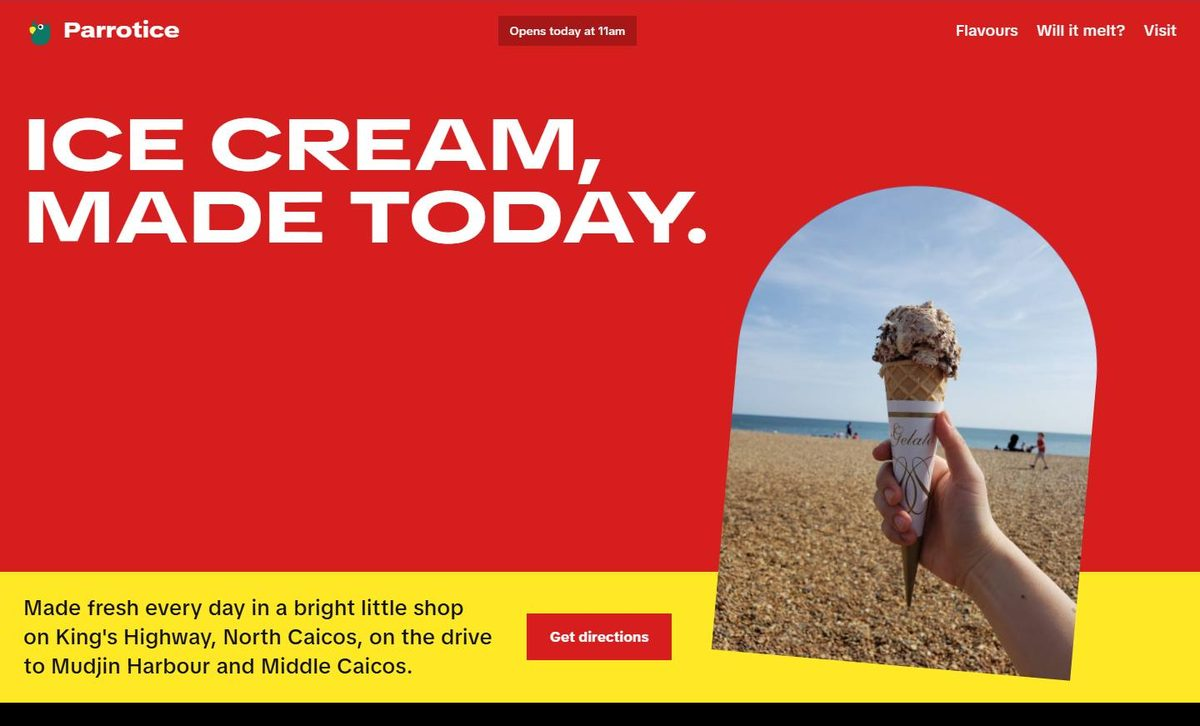
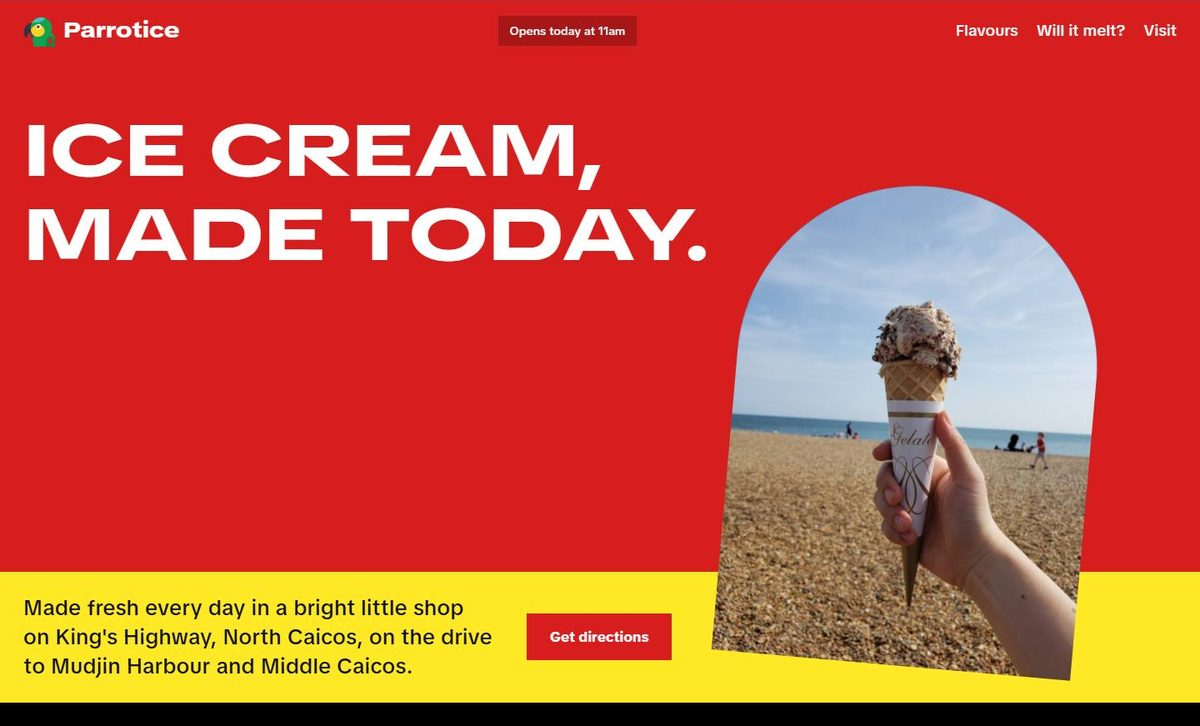
Parrotice: redraw cone, parrot and rating; word panels for the builders

Changed region(s): [[0.0, 0.1515, 0.5858, 0.3636], [0.0, 0.0303, 0.0617, 0.0606]]

diff --git a/22-parrotice/index.html b/22-parrotice/index.html
@@ -12,7 +12,7 @@
   <link rel="preconnect" href="https://fonts.googleapis.com">
   <link rel="preconnect" href="https://fonts.gstatic.com" crossorigin>
   <link href="https://fonts.googleapis.com/css2?family=TikTok+Sans:wdth,wght@75..150,300..900&display=swap" rel="stylesheet">
-  <link rel="stylesheet" href="style.css?v=1">
+  <link rel="stylesheet" href="style.css?v=2">
   <style>.concept-strip{position:absolute;top:0;left:0;right:0;z-index:1000;height:28px;display:flex;align-items:center;justify-content:center;gap:10px;padding:0 12px;background:#111;color:#f5f5f5;font:500 11.5px/1 system-ui,-apple-system,"Segoe UI",sans-serif;white-space:nowrap;overflow:hidden;text-overflow:ellipsis}.concept-strip a{color:#ffd54a;text-decoration:none}body{padding-top:28px}</style>
   <script>document.documentElement.classList.add("js");</script>
 </head>
@@ -23,7 +23,7 @@
 <header class="hero" id="top">
   <nav class="top" aria-label="Main">
     <a class="wordmark" href="#top">
-      <svg class="mark-bird" viewBox="0 0 40 40" aria-hidden="true"><use href="#bird"/></svg>
+      <svg class="mark-bird" viewBox="14 20 92 92" aria-hidden="true"><use href="#parrot" width="160" height="210"/></svg>
       Parrotice
     </a>
     <p class="open-chip" data-open>Open every day, 11 to 5</p>
@@ -66,11 +66,14 @@
 <!-- FLAVOURS: the eight names as one sentence, one lit at a time -->
 <section class="flavours" id="flavours" aria-label="Flavours">
   <div class="flav-scoop" aria-hidden="true">
-    <svg viewBox="0 0 220 300">
-      <path class="flav-ball" d="M28 128c-14-6-18-26-6-38 0-34 30-60 66-60 22-16 56-14 74 6 34 6 48 44 30 70 10 14 2 30-14 30-12 12-30 10-40 2-12 10-30 10-42 0-14 10-34 8-44-2-12 6-24 2-24-8z"/>
-      <path class="flav-shine" d="M70 64c10-12 26-18 40-16" />
-      <path class="cone" d="M30 138h160L112 296h-4z"/>
-      <path class="cone-grid" d="M58 150l70 92M92 150l56 72M126 150l40 50M162 150l-70 92M128 150l-56 72M94 150l-40 50"/>
+    <svg viewBox="0 0 200 300">
+      <path class="cone" d="M40 118h120L102 292h-4z"/>
+      <g clip-path="url(#cone-clip)" class="cone-grid">
+        <path d="M20 100l140 196M48 100l140 196M76 100l140 196M104 100l140 196M-8 100l140 196M-36 100l140 196"/>
+        <path d="M180 100L40 296M152 100L12 296M124 100L-16 296M96 100L-44 296M208 100L68 296M236 100L96 296"/>
+      </g>
+      <path class="flav-ball" d="M28 116C28 62 60 26 100 26s72 36 72 90a14 14 0 0 1-28.8 0a14.4 14.4 0 0 1-28.8 0a14.4 14.4 0 0 1-28.8 0a14.4 14.4 0 0 1-28.8 0a14.4 14.4 0 0 1-28.8 0z"/>
+      <path class="flav-shine" d="M56 70c8-16 22-26 38-28"/>
     </svg>
   </div>
   <div class="flav-copy">
@@ -121,33 +124,42 @@
 
   <div class="melt-stage">
     <svg class="melt-art" viewBox="0 0 360 360" role="img" aria-labelledby="melt-verdict">
-      <ellipse class="puddle" cx="160" cy="336" rx="96" ry="14" data-puddle/>
-      <g data-cone-art>
-        <g class="scoop-wrap" data-scoop>
-          <path class="scoop" d="M96 150c-14-4-20-22-8-34 0-30 26-52 58-52 20-14 50-12 66 6 30 6 42 38 26 60 8 12 0 26-12 26-10 10-26 8-36 2-10 8-26 8-36 0-12 8-30 6-38-2-10 4-20 2-20-6z"/>
-          <path class="scoop-shine" d="M128 98c8-10 22-16 34-14"/>
-        </g>
+      <g transform="translate(30 36)">
+        <ellipse class="puddle" cx="100" cy="300" rx="84" ry="11" data-puddle/>
         <g data-cone>
-          <path class="cone" d="M92 158h136l-66 170h-4z"/>
-          <path class="cone-grid" d="M116 170l58 76M144 170l46 58M172 170l32 40M206 170l-58 76M178 170l-46 58M150 170l-32 40"/>
+          <path class="cone" d="M40 118h120L102 292h-4z"/>
+          <g clip-path="url(#cone-clip)" class="cone-grid">
+        <path d="M20 100l140 196M48 100l140 196M76 100l140 196M104 100l140 196M-8 100l140 196M-36 100l140 196"/>
+        <path d="M180 100L40 296M152 100L12 296M124 100L-16 296M96 100L-44 296M208 100L68 296M236 100L96 296"/>
+      </g>
         </g>
-        <path class="cup is-off" d="M92 158h136l-16 92h-104z" data-cup/>
-        <g class="drips" data-drips>
-          <path d="M104 156h14v40a7 7 0 0 1-14 0z"/>
-          <path d="M150 158h12v62a6 6 0 0 1-12 0z"/>
-          <path d="M196 156h14v30a7 7 0 0 1-14 0z"/>
+        <g class="is-off" data-cup>
+          <path class="cup" d="M38 122h124l-16 128H54z"/>
+          <path class="cup-rim" d="M32 112h136v18H32z"/>
+          <path class="cup-stripe" d="M47 170h106l-3 22H50z"/>
         </g>
         <g class="is-off" data-pint>
-          <path class="tub" d="M98 160h124l-12 160h-100z"/>
-          <path class="tub-lid" d="M88 146h144v20h-144z"/>
-          <path class="tub-label" d="M118 214h84v52h-84z"/>
+          <path class="tub" d="M44 126h112l-10 164H54z"/>
+          <path class="tub-lid" d="M34 104h132v26H34z"/>
+          <path class="tub-label" d="M54 176h92v62H54z"/>
+          <text class="tub-text" x="100" y="212" text-anchor="middle" textLength="76" lengthAdjust="spacingAndGlyphs">PARROTICE</text>
+        </g>
+        <g class="scoop-wrap" data-scoop>
+          <path class="scoop" d="M28 116C28 62 60 26 100 26s72 36 72 90a14 14 0 0 1-28.8 0a14.4 14.4 0 0 1-28.8 0a14.4 14.4 0 0 1-28.8 0a14.4 14.4 0 0 1-28.8 0a14.4 14.4 0 0 1-28.8 0z"/>
+          <path class="scoop-shine" d="M56 70c8-16 22-26 38-28"/>
+        </g>
+        <g class="drips" data-drips>
+          <path d="M50 124h12v44a6 6 0 0 1-12 0z"/>
+          <path d="M94 126h12v70a6 6 0 0 1-12 0z"/>
+          <path d="M138 124h12v34a6 6 0 0 1-12 0z"/>
         </g>
       </g>
+      <use href="#parrot" x="232" y="170" width="120" height="158"/>
       <g class="bird" data-bird>
-        <use href="#bird-big" x="236" y="168" width="120" height="150"/>
-        <circle class="bird-eye" cx="284" cy="214" r="9"/>
-        <circle class="bird-pupil" cx="281" cy="215" r="4.5" data-pupil/>
-        <path class="bird-brow" d="M272 198l24 2" data-brow/>
+        <circle cx="275.5" cy="210.6" r="6.4" fill="#fff"/>
+        <circle cx="274.8" cy="210.6" r="4" fill="#e3711b"/>
+        <circle class="bird-pupil" cx="274.4" cy="210.6" r="2.1" data-pupil/>
+        <path class="bird-brow" d="M267 201.5l16 2" data-brow/>
       </g>
     </svg>
     <div class="trip" aria-hidden="true">
@@ -225,50 +237,38 @@
   <div class="made-pin"><h2 id="made-h"><span>Built by</span> <span>friends</span></h2><p>The shop as the people who made it in 2019, from the story in Times of the Islands.</p></div>
   <div class="made-list">
     <article class="maker">
-      <div class="maker-art art-red" aria-hidden="true">
-        <svg viewBox="0 0 200 200"><path class="o-yellow" d="M22 28h72v64h-72z"/><path class="o-blue" d="M106 28h72v64h-72z"/><path class="o-green" d="M22 104h156v40h-156z"/><path class="o-ink" d="M120 148l12-6 30 52-12 6z"/><path class="o-white" d="M104 132l22-12 8 16-22 12z"/><path class="o-yellow" d="M94 118l16-8 6 12-18 8z"/></svg>
-      </div>
+      <div class="maker-art art-yellow" aria-hidden="true"><p class="maker-word" data-fit-word>The idea</p></div>
       <h3>Patti DesLauriers</h3>
       <p class="role">Owner</p>
       <p>Cleared the land in 2018, tested recipe after recipe on friends and neighbours, and painted the shop herself in colours you can see from the road.</p>
       <blockquote><p>“I always thought this island needed an ice cream shop.”</p><cite>Patti DesLauriers, Times of the Islands, 2019</cite></blockquote>
     </article>
     <article class="maker">
-      <div class="maker-art art-blue" aria-hidden="true">
-        <svg viewBox="0 0 200 200"><circle class="o-white" cx="82" cy="78" r="44"/><path class="o-yellow" d="M118 66a38 38 0 0 1 54 6l-28 24z"/><path class="o-ink" d="M142 94l12-8 34 104-14 6z"/><path class="o-red" d="M30 128h104l-10 64h-84z"/></svg>
-      </div>
+      <div class="maker-art art-blue" aria-hidden="true"><p class="maker-word" data-fit-word>Recipes</p></div>
       <h3>Sherry Williams</h3>
       <p class="role">Manager when the shop opened</p>
       <p>Made the ice cream and helped Patti get the recipes right, down to the banana made with fruit grown on the island.</p>
     </article>
     <article class="maker">
-      <div class="maker-art art-yellow" aria-hidden="true">
-        <svg viewBox="0 0 200 200"><path class="o-red" d="M12 88l88-60 88 60z"/><path class="o-blue" d="M32 88h136v100h-136z"/><path class="o-yellow" d="M86 128h30v60h-30z"/><path class="o-white" d="M46 106h28v26h-28zM128 106h28v26h-28z"/></svg>
-      </div>
+      <div class="maker-art art-ink" aria-hidden="true"><p class="maker-word" data-fit-word>Building</p></div>
       <h3>Charlton Gardiner</h3>
       <p class="role">Builder, Major Hill</p>
       <p>Put up the building itself, the little shop that now sits among the palms on King's Highway.</p>
     </article>
     <article class="maker">
-      <div class="maker-art art-green" aria-hidden="true">
-        <svg viewBox="0 0 200 200"><path class="o-yellow" d="M16 74h168v24h-168z"/><path class="o-yellow" d="M30 98h18v92h-18zM152 98h18v92h-18z"/><path class="o-red" d="M58 138h84v16h-84z"/><path class="o-red" d="M66 154h12v36h-12zM122 154h12v36h-12z"/></svg>
-      </div>
+      <div class="maker-art art-green" aria-hidden="true"><p class="maker-word" data-fit-word>Tables</p></div>
       <h3>Howie Bartels</h3>
       <p class="role">Carpenter</p>
       <p>Added the porch, finished the inside and made the tables and outdoor seats where everyone eats.</p>
     </article>
     <article class="maker">
-      <div class="maker-art art-yellow" aria-hidden="true">
-        <svg viewBox="0 0 200 200"><use href="#bird-big" x="44" y="10" width="112" height="140"/><circle class="o-white" cx="88" cy="54" r="8"/><circle cx="85" cy="55" r="4" fill="#111"/><path class="o-yellow" d="M50 156h100v34h-100z"/></svg>
-      </div>
+      <div class="maker-art art-white" aria-hidden="true"><svg viewBox="0 0 160 210"><use href="#parrot" width="160" height="210"/></svg></div>
       <h3>Jim Frey</h3>
       <p class="role">Wood carver</p>
       <p>Carved Iceman, the shop's parrot, out of casuarina wood.</p>
     </article>
     <article class="maker">
-      <div class="maker-art art-red" aria-hidden="true">
-        <svg viewBox="0 0 200 200"><path class="o-blue" d="M24 16h152v128h-152z"/><circle class="o-red" cx="100" cy="70" r="30"/><path class="o-yellow" d="M64 144h14v48h-14zM122 144h14v48h-14z"/></svg>
-      </div>
+      <div class="maker-art art-blue" aria-hidden="true"><p class="maker-word" data-fit-word>Photo boards</p></div>
       <h3>Rita Shaw</h3>
       <p class="role">Artist, Middle Caicos</p>
       <p>Made the photo boards that visitors stand behind for their pictures.</p>
@@ -279,14 +279,13 @@
 <!-- GUESTS: the rating as stacked scoops -->
 <section class="guests" id="guests" aria-labelledby="guests-h">
   <div class="tower" aria-hidden="true">
-    <svg viewBox="0 0 200 520">
-      <path class="t-cone" d="M46 384h108l-52 132h-4z"/>
-      <circle class="t-scoop" cx="100" cy="344" r="54"/>
-      <circle class="t-scoop" cx="100" cy="266" r="50"/>
-      <circle class="t-scoop" cx="100" cy="194" r="46"/>
-      <circle class="t-scoop" cx="100" cy="128" r="42"/>
-      <circle class="t-empty" cx="100" cy="70" r="38"/>
-      <circle class="t-scoop t-part" cx="100" cy="70" r="38"/>
+    <svg viewBox="0 0 520 156">
+      <use href="#mini-cone" x="0" width="100" height="150" style="color:#f4ead2"/>
+      <use href="#mini-cone" x="105" width="100" height="150" style="color:#f28aa0"/>
+      <use href="#mini-cone" x="210" width="100" height="150" style="color:#7a4328"/>
+      <use href="#mini-cone" x="315" width="100" height="150" style="color:#bff0d8"/>
+      <use href="#mini-cone" x="420" width="100" height="150" style="color:#074438"/>
+      <svg x="420" width="80" height="150" viewBox="0 0 160 300" preserveAspectRatio="xMinYMin meet" overflow="hidden"><use href="#mini-cone" width="200" height="300" style="color:#ffe927"/></svg>
     </svg>
   </div>
   <div class="guests-copy">
@@ -379,22 +378,42 @@
   </div>
 </footer>
 
-<!-- Drawn parrot, used in the wordmark, the melt meter and the carver's card -->
+<!-- Drawn parrot (a turquoise-fronted amazon) and the small cone used for the rating -->
 <svg width="0" height="0" style="position:absolute" aria-hidden="true">
-  <symbol id="bird" viewBox="0 0 40 40">
-    <path fill="#0c7866" d="M20 4c8 0 14 6 14 14v8c0 7-5 12-12 12h-6l-6-6V18c0-8 4-14 10-14z"/>
-    <path fill="#d71e1e" d="M20 4c6 0 10 3 12 8H14c1-5 3-8 6-8z"/>
-    <path fill="#ffe927" d="M8 16c3-2 7-2 8 2l-4 6c-3 0-5-4-4-8z"/>
-    <circle fill="#fff" cx="22" cy="15" r="3.4"/><circle fill="#111" cx="21.4" cy="15" r="1.7"/>
+  <defs>
+    <clipPath id="cone-clip"><path d="M40 118h120L102 292h-4z"/></clipPath>
+    <clipPath id="head-clip"><circle cx="66" cy="58" r="31"/></clipPath>
+    <clipPath id="wing-clip"><path d="M86 82c22-4 40 20 40 54 0 22-8 40-20 50-12-6-26-30-28-58-1-20 2-40 8-46z"/></clipPath>
+  </defs>
+  <symbol id="parrot" viewBox="0 0 160 210">
+    <path d="M100 160l30 46h-14l-26-40z" fill="#1e4bd7"/>
+    <path d="M108 158l32 40-10 6-28-40z" fill="#0b8a43"/>
+    <path d="M42 70c-4 46 12 92 50 108 22 9 40-4 38-30-2-38-22-74-52-86z" fill="#10a34f"/>
+    <path d="M48 66c-10 0-16 6-16 13 0 4 3 6 7 6 6 0 10-6 12-12z" fill="#4a4a55"/>
+    <path d="M50 44c-20-4-34 8-34 26 0 8 3 14 8 18 0-12 8-20 26-22z" fill="#33333d"/>
+    <circle cx="66" cy="58" r="31" fill="#10a34f"/>
+    <g clip-path="url(#head-clip)">
+      <path d="M30 22h50c-2 14-14 20-30 20-10 0-18 4-22 8z" fill="#3fc8c0"/>
+      <ellipse cx="56" cy="66" rx="20" ry="17" fill="#ffd21f"/>
+    </g>
+    <path d="M86 82c22-4 40 20 40 54 0 22-8 40-20 50-12-6-26-30-28-58-1-20 2-40 8-46z" fill="#0b8a43"/>
+    <g clip-path="url(#wing-clip)">
+      <path d="M70 150h70v50H70z" fill="#1e4bd7"/>
+      <ellipse cx="92" cy="96" rx="6" ry="9" fill="#d71e1e"/>
+    </g>
+    <circle cx="58" cy="54" r="8" fill="#fff"/>
+    <circle cx="57" cy="54" r="5" fill="#e3711b"/>
+    <circle cx="56.5" cy="54" r="2.6" fill="#111"/>
+    <circle cx="55" cy="52.4" r="1.1" fill="#fff"/>
+    <rect x="20" y="176" width="140" height="12" rx="6" fill="#7a4a26"/>
+    <path d="M74 170c-4 4-6 10-4 14h8c0-4 2-8 4-10zM92 172c-4 4-5 9-3 12h8c0-4 1-7 3-9z" fill="#8c8c96"/>
   </symbol>
-  <symbol id="bird-big" viewBox="0 0 128 160">
-    <path fill="#0c7866" d="M60 8c30 0 52 22 52 52v44c0 26-20 48-46 48H44l-22-22V58C22 28 36 8 60 8z"/>
-    <path fill="#d71e1e" d="M60 8c22 0 38 12 46 30H40c4-18 10-30 20-30z"/>
-    <path style="fill: var(--bird-wing, #1e4bd7)" d="M96 76c12 6 16 22 12 40l-10 34-14-8 6-30c2-14 0-26 6-36z"/>
-    <path fill="#ffe927" d="M8 50c12-8 28-8 32 6L28 80C16 82 4 66 8 50z"/>
+  <symbol id="mini-cone" viewBox="0 0 200 300">
+    <path d="M40 118h120L102 292h-4z" fill="#e3a64c"/>
+    <path d="M28 116C28 62 60 26 100 26s72 36 72 90a14 14 0 0 1-28.8 0a14.4 14.4 0 0 1-28.8 0a14.4 14.4 0 0 1-28.8 0a14.4 14.4 0 0 1-28.8 0a14.4 14.4 0 0 1-28.8 0z" fill="currentColor"/>
   </symbol>
 </svg>
 
-<script src="script.js?v=1"></script>
+<script src="script.js?v=2"></script>
 </body>
 </html>

diff --git a/22-parrotice/style.css b/22-parrotice/style.css
@@ -185,9 +185,9 @@ fieldset { border: 0; margin: 0; padding: 0; min-width: 0; }
 }
 .flav-scoop svg { width: 100%; max-width: 340px; margin: 0 auto; }
 .flav-ball { fill: var(--scoop); transition: fill .45s var(--ease); }
-.flav-shine { fill: none; stroke: rgba(255, 255, 255, .7); stroke-width: 8; stroke-linecap: round; }
+.flav-shine { fill: none; stroke: rgba(255, 255, 255, .75); stroke-width: 9; stroke-linecap: round; }
 .cone { fill: var(--waffle); }
-.cone-grid { fill: none; stroke: var(--waffle-line); stroke-width: 5; stroke-linecap: round; }
+.cone-grid { fill: none; stroke: var(--waffle-line); stroke-width: 5; }
 .flav-sentence { font-size: clamp(1.5rem, 2.2vw, 2rem); font-weight: 700; line-height: 1.3; max-width: 44ch; }
 .lead-in { color: var(--ink); }
 .fl { color: rgba(255, 255, 255, .64); transition: color .4s var(--ease); }
@@ -239,16 +239,19 @@ fieldset { border: 0; margin: 0; padding: 0; min-width: 0; }
 .melt-art { width: 100%; overflow: visible; }
 .scoop, .drips path, .puddle { fill: var(--scoop); }
 .scoop-shine { fill: none; stroke: rgba(255, 255, 255, .8); stroke-width: 8; stroke-linecap: round; }
-.scoop-wrap { transform-origin: 160px 158px; }
+.scoop-wrap { transform-box: fill-box; transform-origin: 50% 88%; }
 .drips path { transform-box: fill-box; transform-origin: top; transform: scaleY(0); }
 .puddle { transform-box: fill-box; transform-origin: center; transform: scale(0); } /* taste-skill-ignore: a puddle that grows as the scoop melts, not an entrance */
 .cup { fill: var(--red); }
+.cup-rim { fill: var(--red-deep); }
+.cup-stripe { fill: var(--ink); }
+.tub-text { font: 800 13px "TikTok Sans", sans-serif; fill: var(--red); }
 .tub { fill: var(--ink); }
 .tub-lid { fill: var(--red); }
 .tub-label { fill: var(--yellow); }
 .bird-eye { fill: var(--ink); }
-.bird-pupil { fill: var(--black); transition: transform .3s var(--ease); }
-.bird-brow { stroke: var(--black); stroke-width: 6; stroke-linecap: round; transform-box: fill-box; transform-origin: center; transition: transform .3s var(--ease); }
+.bird-pupil { fill: var(--black); transform-box: fill-box; transition: transform .3s var(--ease); }
+.bird-brow { stroke: var(--black); stroke-width: 3.5; stroke-linecap: round; transform-box: fill-box; transform-origin: center; transition: transform .3s var(--ease); }
 .trip { display: grid; grid-template-columns: auto 1fr auto; gap: 12px; align-items: center; margin-top: 22px; font-weight: 600; font-size: 1rem; }
 .trip-track { position: relative; height: 14px; background: var(--blue-deep); }
 .trip-car {
@@ -304,8 +307,14 @@ fieldset { border: 0; margin: 0; padding: 0; min-width: 0; }
 .made-list { display: grid; grid-template-columns: 1fr 1fr; gap: 64px 40px; align-items: start; }
 .maker { width: 100%; }
 .maker:nth-child(even) { margin-top: 22vh; }
-.maker-art { background: var(--bg); aspect-ratio: 3 / 2; padding: 6% 22%; margin-bottom: 18px; }
-.maker-art svg { width: 100%; height: 100%; overflow: visible; }
+.maker-art { background: var(--bg); aspect-ratio: 3 / 2; padding: 0 9%; margin-bottom: 18px; display: flex; align-items: center; overflow: hidden; }
+.maker-art svg { height: 86%; width: auto; margin: 0 auto; }
+.maker-word { font-weight: 800; font-stretch: 150%; text-transform: uppercase; letter-spacing: -0.01em; line-height: 1.2; white-space: nowrap; width: max-content; }
+.art-yellow { background: var(--yellow); color: var(--black); }
+.art-blue { background: var(--blue); color: var(--ink); }
+.art-ink { background: var(--bg); color: var(--yellow); }
+.art-green { background: var(--green); color: var(--ink); }
+.art-white { background: var(--ink); }
 .maker h3 { font-size: var(--step-lead); font-weight: 800; font-stretch: 112%; line-height: 1.2; }
 .maker .role { font-size: 1rem; color: rgba(255, 255, 255, .85); margin: 2px 0 10px; }
 .maker p { max-width: 36ch; }
@@ -319,20 +328,12 @@ fieldset { border: 0; margin: 0; padding: 0; min-width: 0; }
 .guests {
   background: var(--green);
   display: grid;
-  grid-template-columns: minmax(160px, 22vw) 1fr;
-  gap: 7vw;
+  grid-template-columns: minmax(0, 5fr) minmax(0, 6fr);
+  gap: 6vw;
   align-items: center;
   padding: 14vh var(--gutter) 14vh 8vw;
 }
-.tower svg { width: 100%; max-width: 260px; margin: 0 auto; }
-.t-cone { fill: var(--waffle); }
-.t-scoop { fill: var(--scoop); }
-.t-scoop:nth-of-type(2) { fill: #f28aa0; }
-.t-scoop:nth-of-type(3) { fill: #7a4328; }
-.t-scoop:nth-of-type(4) { fill: #bff0d8; }
-.t-scoop:nth-of-type(5) { fill: var(--scoop); }
-.t-empty { fill: var(--green-deep); }
-.t-part { fill: var(--yellow); clip-path: inset(20% 0 0 0); }
+.tower svg { width: 100%; max-width: 560px; }
 .guests h2 { font-size: var(--step-head); line-height: 1.12; }
 .scores { display: flex; flex-wrap: wrap; gap: 20px 48px; margin-top: 30px; }
 .scores p { display: grid; gap: 8px; }
@@ -426,7 +427,7 @@ fieldset { border: 0; margin: 0; padding: 0; min-width: 0; }
   .flav-scoop svg { max-width: 220px; margin: 0; }
   .made-pin { position: static; }
   .guests { padding: 12vh var(--gutter); }
-  .tower svg { max-width: 160px; margin: 0; }
+  .tower svg { max-width: 340px; margin: 0; }
   .two-head { grid-template-columns: 1fr; }
   .visit-grid { grid-template-columns: 1fr; gap: 36px; }
 }

diff --git a/22-parrotice/script.js b/22-parrotice/script.js
@@ -117,7 +117,7 @@
       $$("[data-drips] path").forEach((d, i) => (d.style.transform = `scaleY(${Math.min(1, k * (1.2 + i * 0.25)).toFixed(3)})`));
       $("[data-puddle]").style.transform = `scale(${(what === "cup" ? k * 0.45 : k).toFixed(3)})`;
     }
-    $("[data-pupil]").style.transform = `translate(${(-2 - k * 3).toFixed(1)}px, ${(k * 4).toFixed(1)}px)`;
+    $("[data-pupil]").style.transform = `translate(${(-0.6 - k * 1.2).toFixed(2)}px, ${(k * 1.6).toFixed(2)}px)`;
     $("[data-brow]").style.transform = `rotate(${(k * 22).toFixed(1)}deg)`;
   }
 
